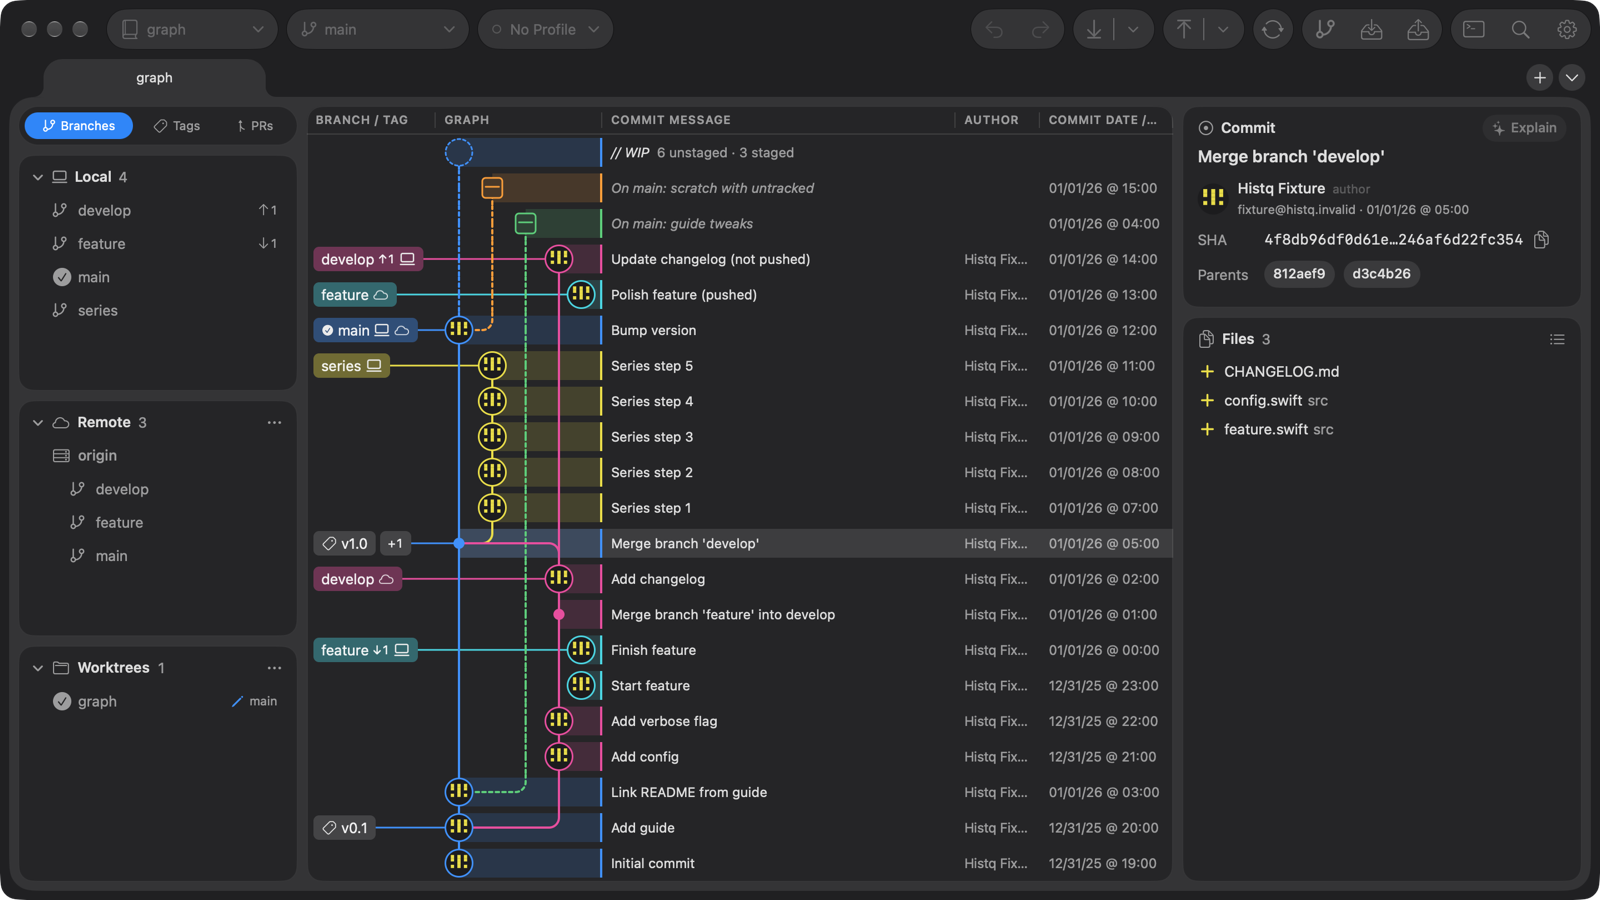
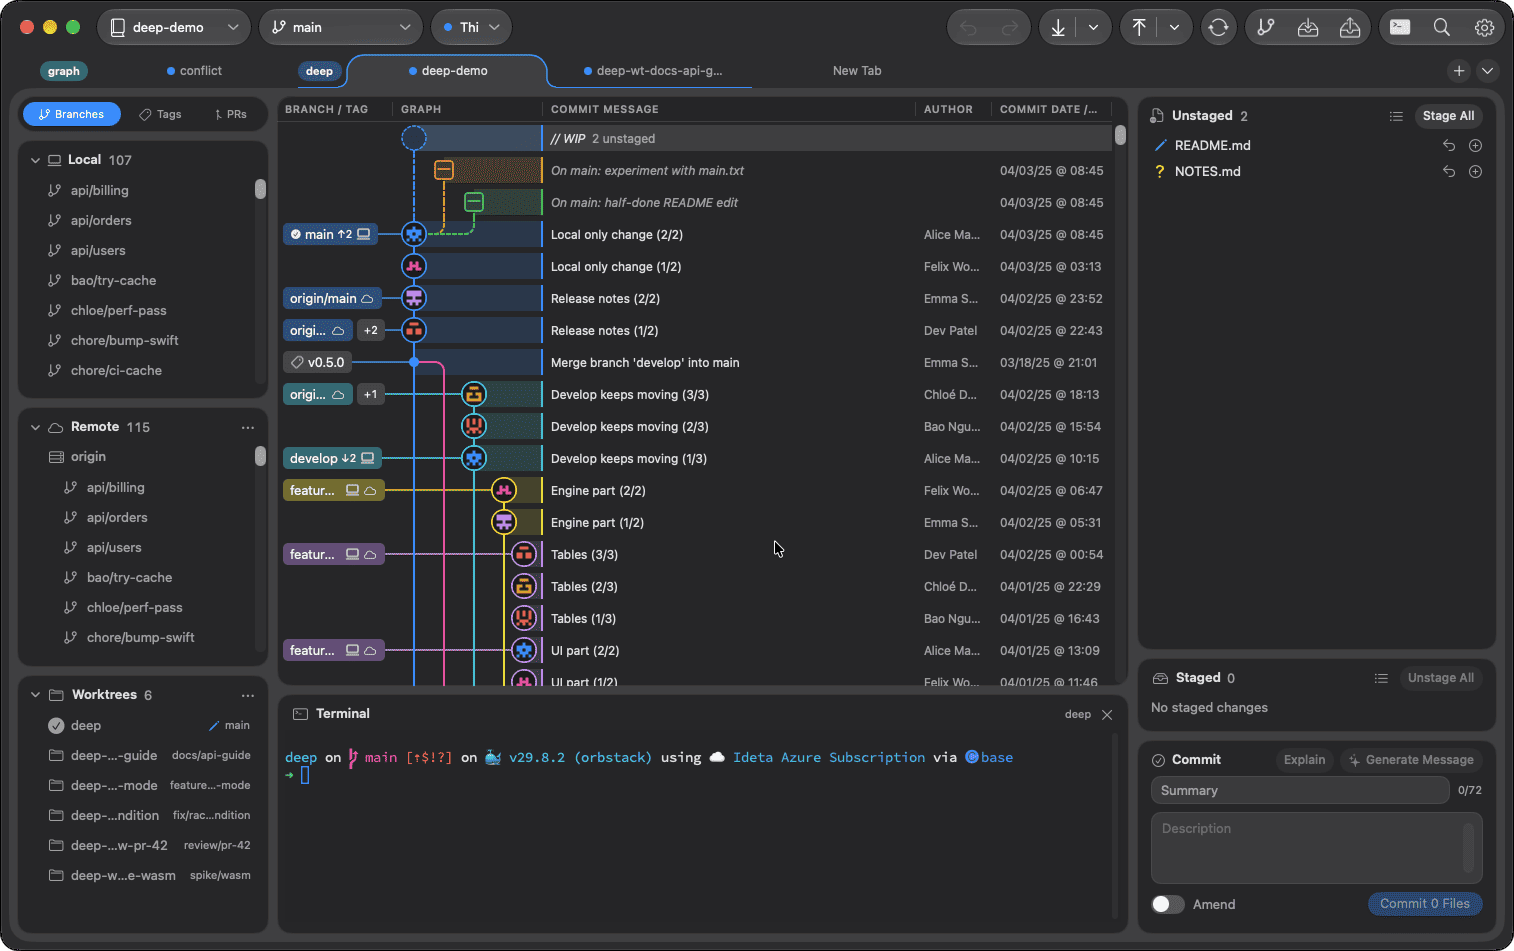
docs(website): use new screenshot for site and README

Changed region(s): [[0.0, 0.0, 1.0, 1.0], [0.5898, 0.84, 0.714, 0.9644]]

diff --git a/website/index.html b/website/index.html
@@ -93,9 +93,9 @@
           <img
             class="poster"
             src="poster.png"
-            alt="Histq window: commit graph with colored branch lanes, branch and tag labels, a selected merge commit and its details and changed files"
-            width="1600"
-            height="900"
+            alt="Histq window: commit graph with colored branch lanes and labels, branch and worktree sidebar, unstaged changes, the commit form and the terminal drawer"
+            width="1514"
+            height="951"
             loading="eager"
           />
         </button>

diff --git a/README.md b/README.md
@@ -12,6 +12,8 @@
 
 [Website](https://histq.dinhanhthi.com) · [Download](https://github.com/dinhanhthi/Histq/releases/latest) · [Changelog](CHANGELOG.md)
 
+<img src="assets/screenshot.png" alt="Histq window: commit graph, branch and worktree sidebar, unstaged changes, commit form and terminal drawer">
+
 </div>
 
 Histq is written in SwiftUI and AppKit. It runs the `git` command line tool on your Mac, so it works with your
